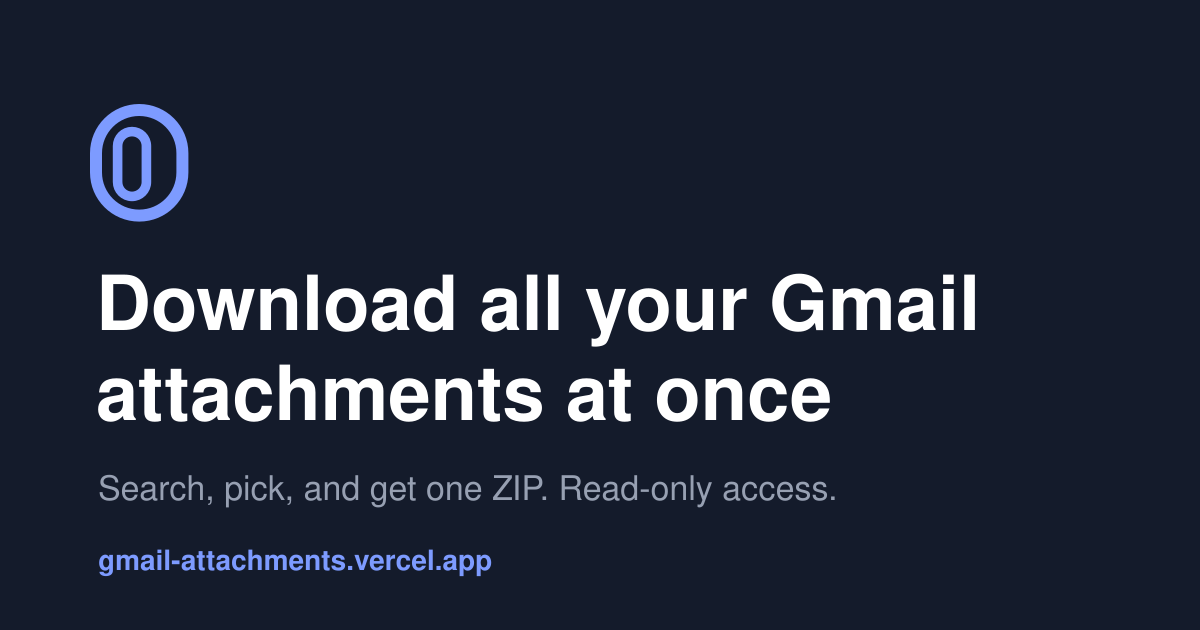
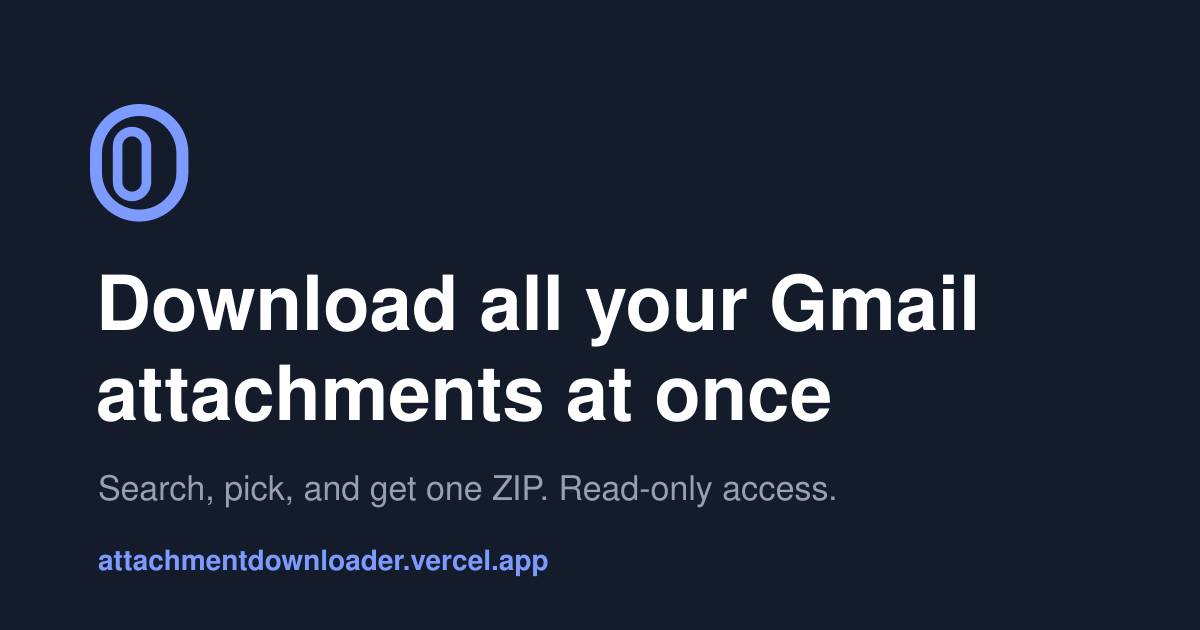
Move the site to attachmentdownloader.vercel.app

Changed region(s): [[0.0617, 0.8746, 0.4625, 0.9349]]

diff --git a/gmail-attachments-not-downloading.html b/gmail-attachments-not-downloading.html
@@ -8,13 +8,13 @@
       name="description"
       content="Gmail attachment won't download? Fixes for blocked files and virus warnings, browser and cookie problems, work account restrictions, Drive links, and the Gmail app on iPhone and Android."
     />
-    <link rel="canonical" href="https://gmail-attachments.vercel.app/gmail-attachments-not-downloading" />
+    <link rel="canonical" href="https://attachmentdownloader.vercel.app/gmail-attachments-not-downloading" />
     <link rel="icon" type="image/svg+xml" href="./public/favicon.svg" />
     <meta property="og:type" content="article" />
     <meta property="og:site_name" content="AttachmentDownloader" />
-    <meta property="og:url" content="https://gmail-attachments.vercel.app/gmail-attachments-not-downloading" />
+    <meta property="og:url" content="https://attachmentdownloader.vercel.app/gmail-attachments-not-downloading" />
     <meta property="og:title" content="Can't download attachments in Gmail? 8 fixes that work" />
-    <meta property="og:image" content="https://gmail-attachments.vercel.app/og.png" />
+    <meta property="og:image" content="https://attachmentdownloader.vercel.app/og.png" />
     <meta name="twitter:card" content="summary_large_image" />
     <script type="application/ld+json">
       {
@@ -22,9 +22,9 @@
         "@type": "Article",
         "headline": "Can't download attachments in Gmail? 8 fixes that work",
         "dateModified": "2026-10-19",
-        "mainEntityOfPage": "https://gmail-attachments.vercel.app/gmail-attachments-not-downloading",
-        "image": "https://gmail-attachments.vercel.app/og.png",
-        "publisher": { "@type": "Organization", "name": "AttachmentDownloader", "url": "https://gmail-attachments.vercel.app/" }
+        "mainEntityOfPage": "https://attachmentdownloader.vercel.app/gmail-attachments-not-downloading",
+        "image": "https://attachmentdownloader.vercel.app/og.png",
+        "publisher": { "@type": "Organization", "name": "AttachmentDownloader", "url": "https://attachmentdownloader.vercel.app/" }
       }
     </script>
     <link rel="stylesheet" href="./src/styles.css" />

diff --git a/index.html b/index.html
@@ -9,19 +9,19 @@
       name="description"
       content="Find every attachment in your Gmail and download all of them, or just the ones you pick, as one ZIP. Filter by sender, date, label or file type. Read-only access."
     />
-    <link rel="canonical" href="https://gmail-attachments.vercel.app/" />
+    <link rel="canonical" href="https://attachmentdownloader.vercel.app/" />
     <link rel="icon" type="image/svg+xml" href="./public/favicon.svg" />
     <meta name="theme-color" content="#2753c9" />
 
     <meta property="og:type" content="website" />
     <meta property="og:site_name" content="AttachmentDownloader" />
-    <meta property="og:url" content="https://gmail-attachments.vercel.app/" />
+    <meta property="og:url" content="https://attachmentdownloader.vercel.app/" />
     <meta property="og:title" content="Download all your Gmail attachments at once" />
     <meta
       property="og:description"
       content="Search your inbox, pick the files and download them as one ZIP. Read-only Gmail access."
     />
-    <meta property="og:image" content="https://gmail-attachments.vercel.app/og.png" />
+    <meta property="og:image" content="https://attachmentdownloader.vercel.app/og.png" />
     <meta property="og:image:width" content="1200" />
     <meta property="og:image:height" content="630" />
     <meta name="twitter:card" content="summary_large_image" />

diff --git a/privacy.html b/privacy.html
@@ -5,7 +5,7 @@
     <meta name="viewport" content="width=device-width, initial-scale=1.0" />
     <title>Privacy Policy | AttachmentDownloader</title>
     <meta name="description" content="What AttachmentDownloader reads from your Gmail, what it stores, and how to remove its access." />
-    <link rel="canonical" href="https://gmail-attachments.vercel.app/privacy" />
+    <link rel="canonical" href="https://attachmentdownloader.vercel.app/privacy" />
     <link rel="icon" type="image/svg+xml" href="./public/favicon.svg" />
     <link rel="stylesheet" href="./src/styles.css" />
   </head>
@@ -19,7 +19,7 @@
         <h1>Privacy policy</h1>
         <p class="muted small">Last updated October 19, 2026</p>
         <p>
-          AttachmentDownloader (the "app", at gmail-attachments.vercel.app) helps you find attachments in your Gmail and
+          AttachmentDownloader (the "app", at attachmentdownloader.vercel.app) helps you find attachments in your Gmail and
           download them as a ZIP. This page explains what it accesses and keeps.
         </p>
 

diff --git a/scripts/prerender.tsx b/scripts/prerender.tsx
@@ -18,7 +18,7 @@ const faqSchema = {
     {
       "@type": "WebApplication",
       name: "AttachmentDownloader",
-      url: "https://gmail-attachments.vercel.app/",
+      url: "https://attachmentdownloader.vercel.app/",
       applicationCategory: "UtilitiesApplication",
       operatingSystem: "Any (web browser)",
       description: "Find attachments in Gmail and download all of them, or the ones you pick, as one ZIP.",

diff --git a/README.md b/README.md
@@ -27,7 +27,7 @@
 </p>
 
 <p align="center">
-  <a href="https://gmail-attachments.vercel.app"><b>Production</b></a> ·
+  <a href="https://attachmentdownloader.vercel.app"><b>Production</b></a> ·
   <a href="https://gmail-attachments-staging.vercel.app"><b>Staging</b></a>
 </p>
 
@@ -54,7 +54,7 @@ Checks: `bun run typecheck` · `bun test` · `bun run build`
 |---|---|---|
 | dev | http://localhost:3000 | your `dev/…` deployment |
 | staging | https://gmail-attachments-staging.vercel.app | `staging` (glorious-leopard-388) |
-| production | https://gmail-attachments.vercel.app | default prod (flippant-jay-368) |
+| production | https://attachmentdownloader.vercel.app | default prod (flippant-jay-368) |
 
 - **Pull requests:** checks only.
 - **Pushes to `main`:** checks, then staging, then production after you approve it under **Review deployments** on the run.
